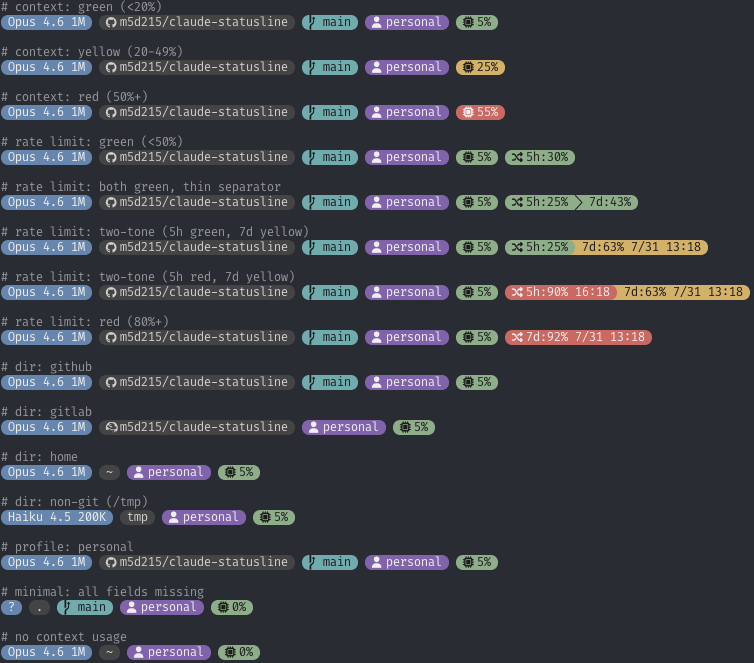
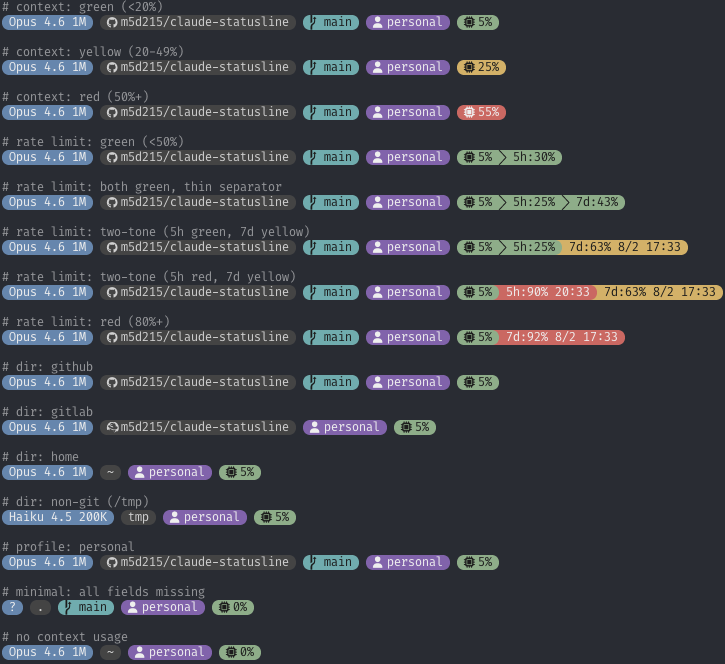
feat: merge context and rate limit segments into one meters pill
Replace the hardcoded two-part rate limit rendering with a generic
pill renderer that folds any list of colored parts into a single
pill, joining same-color neighbors with a thin separator and
different colors with a cap transition. The context percentage now
leads the same pill as the 5h/7d rate limits, each part keeping its
own color thresholds. The rate limit icon is dropped; the 5h:/7d:
prefixes are enough. All other segments are now rendered through the
same pill function.

Changed region(s): [[0.0, 0.2112, 1.0, 0.9955], [0.0, 0.0, 0.6979, 0.181]]

diff --git a/README.md b/README.md
@@ -12,8 +12,7 @@ A Powerline-style status line and subagent panel renderer for [Claude Code](http
 | Directory | Current working directory (`~/src/github.com/` and `~/src/gitlab.com/` are shortened with icons) |
 | Git branch | Current branch (hidden when not in a git repo) |
 | Profile | Basename of `$CLAUDE_CONFIG_DIR` (hidden when unset or `~/.claude`) |
-| Context % | Context window usage — green → yellow → red as it fills |
-| Rate limits | 5-hour and 7-day usage, each colored green → yellow → red independently; reset time appears when that window is at 50%+ (hidden when no data) |
+| Meters | Context window usage plus 5-hour / 7-day rate limits in one pill, each part colored green → yellow → red independently; rate-limit reset time appears when that window is at 50%+ (rate-limit parts hidden when no data) |
 
 ## Subagent status line
 
